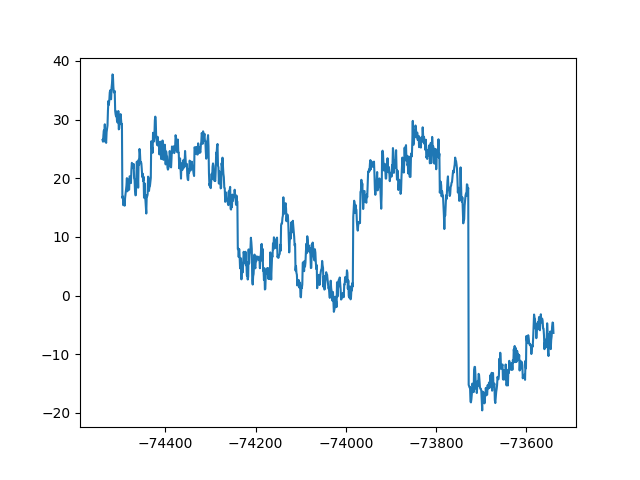
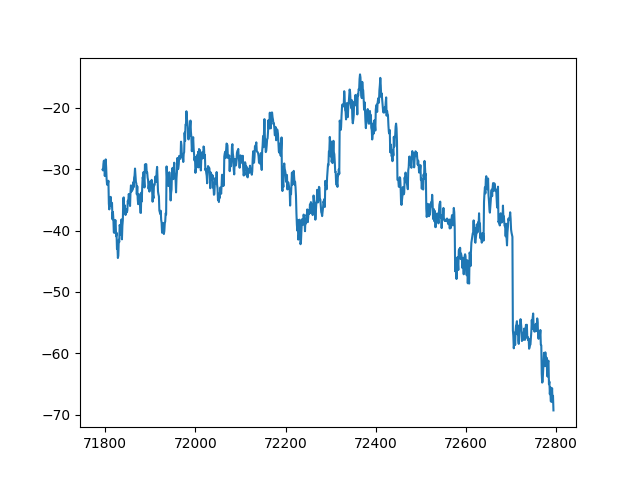
new hash weather function idea

diff --git a/Weather/HashWeather.py b/Weather/HashWeather.py
@@ -13,6 +13,8 @@ import random
 import math
 import functools
 import os
+import numpy as np
+from scipy.stats import norm, pareto
 
 import sys
 sys.path.insert(0, "/home/wesley/programming")
@@ -56,6 +58,22 @@ def hash_random_01(obj):
     s = str(obj)
     n = get_hash(s)
     return n / MAX_HASH
+
+
+def hash_normal(obj, mu=0, sigma=1):
+    q = hash_random_01(obj)
+    value_at_quantile = norm.ppf(q, loc=mu, scale=sigma)
+    return value_at_quantile
+
+
+def hash_pareto(obj, a):
+    q = hash_random_01(obj)
+    # for q < 0.5, take the negative, since pareto only returns positive values, so split the [0,1] hashes into two halves
+    negative = q < 0.5
+    new_q = (q % 0.5) / 0.5
+    assert 0 <= new_q <= 1
+    value_at_quantile = pareto.ppf(new_q, b=a) * (-1 if negative else 1)
+    return value_at_quantile
 
 
 def hash_random_sequence_01(obj):
@@ -366,6 +384,59 @@ def is_in_window_of_influence(x, fencepost):
     return 3/4 * fencepost <= x <= 3/2 * fencepost
 
 
+def cosine_like_weight_by_distance(d, max_d, spike_power=1):
+    # returns in [0, 1]
+    # spike_power higher than 1 makes it more spiky around close distances so it drops off faster with distance, just by taking the original weight to that power
+    assert d >= 0, "distance must be non-negative"
+    if d > max_d:
+        return 0
+    distance_scaled_to_pi = np.pi * d/max_d
+    assert 0 <= distance_scaled_to_pi <= np.pi
+    # cosine in this interval goes from 1 to -1, map this to 1 to 0
+    c = np.cos(distance_scaled_to_pi)
+    v = 0 + (1-0)/(1-(-1)) * (c - (-1))
+    assert 0 <= v <= 1, v
+    v **= spike_power
+    return v
+
+
+def get_posts_influencing_x(x, spacing, max_d):
+    # they should be integer multiples of spacing
+    a = spacing
+    min_possible = x - max_d
+    max_possible = x + max_d
+    min_post = a * math.ceil(min_possible / a)
+    max_post = a * math.floor(max_possible / a)
+    assert abs(x - min_post) <= max_d
+    assert abs(x - max_post) <= max_d
+    res = list(np.arange(min_post, max_post + a, a))
+    return res
+
+
+def get_regular_spaced_post_sum(x, seed, spacing, max_distance, hash_distribution, spike_power=1):
+    # place posts every `spacing` on x axis, each of these gets a [0,1] value from its hash
+    # weight them based on their distance from x, with a cosine-like wave from 0 to 1 (so there is a finite distance, max_distance, at which a post can affect the value of x)
+    # value at x is weighted sum of these
+    assert max_distance > spacing/2, "max_distance is too small, so you will get some xs for which there are no neighbors with any weight"
+    posts = get_posts_influencing_x(x, spacing, max_distance)
+    distances_to_posts = [abs(x - post) for post in posts]
+    weights_at_posts = [cosine_like_weight_by_distance(d, max_distance, spike_power=spike_power) for d in distances_to_posts]
+    total_weight = sum(weights_at_posts)
+    values_at_posts = [hash_distribution(seed + str(post)) for post in posts]
+    weighted_values = [w * v for w,v in zip(weights_at_posts, values_at_posts)]
+    value = sum(weighted_values) / total_weight
+    return value
+
+
+def seasonality(x, period, amplitude):
+    # amplitude is max, not RMS or something else
+    # assume phase of 0 at x=0
+    phase = (x % period) / period
+    theta = phase * 2*np.pi
+    v = np.sin(theta) * amplitude
+    return v
+
+
 def run_simple_simulation():
     options = [
         ["rain", 0.1], ["cloudy", 0.3], ["thunderstorm", 0.1], ["snow", 0.0001],
@@ -480,15 +551,14 @@ def print_graph_live(seed, spectrum_exponent, x0, x_step):
         x += x_step
 
 
-def plot_live(seed, spectrum_exponent, x0, x_step):
-    max_frames = 1000
+def plot_live(y_func, x0, x_step, plot_every_n_steps=1, max_frames=100):
     x = x0
     xs = []
     ys = []
 
-    with InteractivePlot(plot_every_n_steps=10) as iplt:
+    with InteractivePlot(plot_every_n_steps=plot_every_n_steps) as iplt:
         while iplt.is_open():
-            y = get_fencepost_deviation_sum(x, seed, spectrum_exponent)
+            y = y_func(x)
             xs.append(x)
             ys.append(y)
             xs = xs[-max_frames:]
@@ -514,14 +584,29 @@ if __name__ == "__main__":
     # want to get a deterministic function with good autocorrelation like long-term variations, and smaller variations around that trend, etc. to fractal precision
 
     seed = str(time.time())
-    spectrum_exponent = 0.4
-    offset = random.uniform(-100000, 100000)
-    xs = linspace(0+offset, 1000+offset, 1001)
-    ys = [get_fencepost_deviation_sum(x, seed, spectrum_exponent) for x in xs]
+    x0 = random.uniform(-100000, 100000)
+    x_step = 1
+    # xs = linspace(x0, x0+1000, 1001)
+    # ys = [get_fencepost_deviation_sum(x, seed, spectrum_exponent) for x in xs]
     # summarize_xs_ys(xs, ys)
     # print_graph(xs, ys, n_ticks=250)
     # print_graph_live(seed, spectrum_exponent, x0=xs[0], x_step=xs[1]-xs[0])
-    plot_live(seed, spectrum_exponent, x0=xs[0], x_step=xs[1]-xs[0])
+
+    # y_func = lambda x: get_fencepost_deviation_sum(x, seed=seed, spectrum_exponent=0.4)  # too many discontinuous jumps
+    y_func = lambda x: get_regular_spaced_post_sum(
+        x, seed=seed, 
+        spacing=1, 
+        max_distance=30, 
+        spike_power=6,
+        # hash_distribution=hash_random_01,
+        # hash_distribution=(lambda obj: hash_normal(obj, mu=0, sigma=10)),
+        hash_distribution=(lambda obj: hash_pareto(obj, a=1)),  # pareto a < 1 becomes Extremistan
+    ) + seasonality(x, period=1000, amplitude=10)
+    plot_live(y_func, x0=x0, x_step=x_step, plot_every_n_steps=10, max_frames=1000)
+
+    print("exiting")
+    sys.exit()
+
     if not android:
         plt.plot(xs, ys)
         # plt.show()

diff --git a/InteractivePlot.py b/InteractivePlot.py
@@ -11,9 +11,14 @@ class InteractivePlot:
         self.fignum = plt.gcf().number  # use to determine if user has closed plot
         return self
 
-    def __exit__(self, type, value, traceback):
-        print("user closed plot; exiting")
-        plt.ioff()
+    def __exit__(self, exc_type, exc_value, traceback):
+        if exc_type is None:
+            # no exception occurred
+            print("user closed plot; exiting")
+            plt.ioff()
+        else:
+            plt.ioff()
+            return False  # will reraise the exception
 
     def plot(self, *args, **kwargs):
         self.counter += 1
